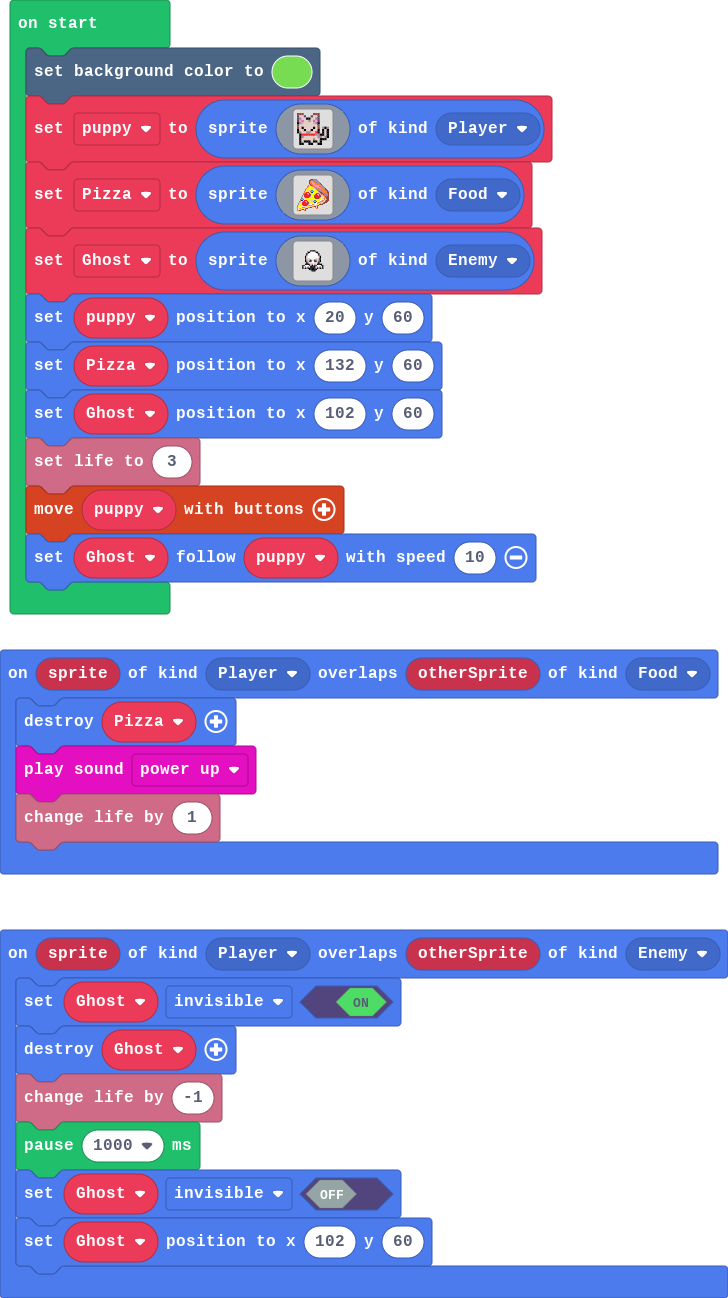
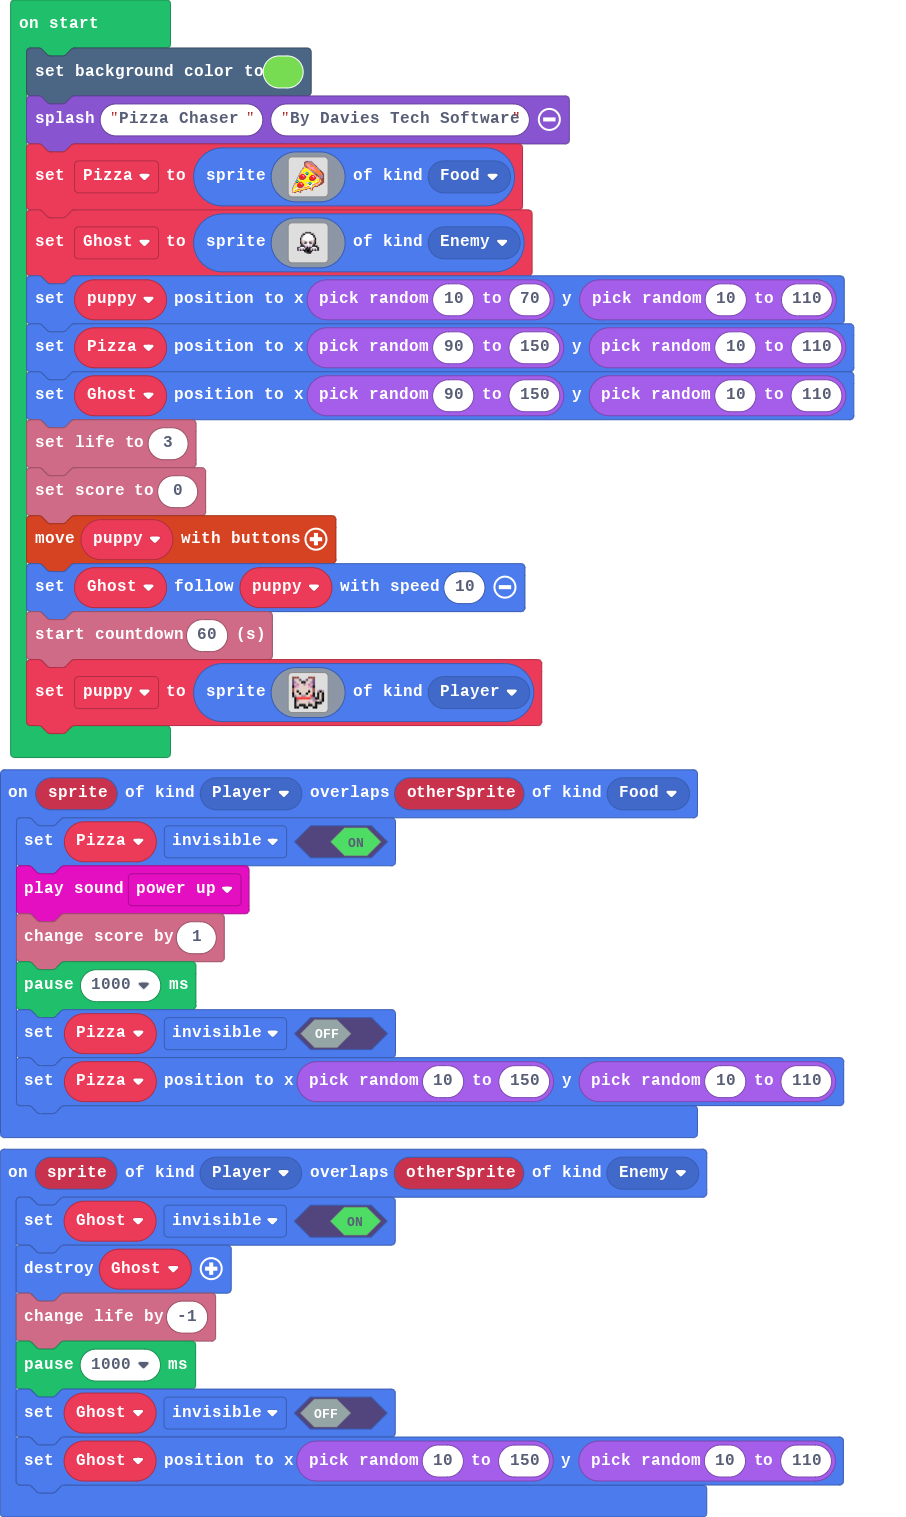
Update pxt.json, main.blocks, main.ts, tilemap.g.ts, images.g.jres, images.g.ts

diff --git a/images.g.ts b/images.g.ts
@@ -1,0 +1,246 @@
+// Auto-generated code. Do not edit.
+namespace myImages {
+
+    helpers._registerFactory("image", function(name: string) {
+        switch(helpers.stringTrim(name)) {
+            case "image1":return img`
+e e e . . . . e e e . . . . 
+c d d c . . c d d c . . . . 
+c b d d f f d d b c . . . . 
+c 3 b d d b d b 3 c . . . . 
+f b 3 d d d d 3 b f . . . . 
+e d d d d d d d d e . . . . 
+e d f d d d d f d e . b f b 
+f d d f d d f d d f . f d f 
+f b d d b b d d 2 f . f d f 
+. f 2 2 2 2 2 2 b b f f d f 
+. f b d d d d d d b b d b f 
+. f d d d d d b d d f f f . 
+. f d f f f d f f d f . . . 
+. f f . . f f . . f f . . . 
+`;
+            case "image2":return img`
+.............beebbbb............
+............eebbbb4bb...........
+............eb344bb4bb..........
+............e44334bb4bb.........
+............eb433344b4be........
+............4eb43344444be.......
+...........bd4eb43333344bb......
+..........b455d4443333444bb.....
+..........4d5555d444333444bb....
+.........4555555dd4b4443444be...
+........bd5555d555d4bb444444ee..
+........b55ddd665555bb4b44444ee.
+.......bd5555677655554ebb44444eb
+.......43222558855555d4eeb44b4ee
+......b422332ddd555222d4eebbb4be
+......be22232ed55522332db4ebbbbe
+.....bde22222e555e22232edd4bbbbe
+.....b52e222e3555e22222eddd4ebee
+....bd552eee355552e222e355544eee
+....665dd5555555552eee355dd4deee
+...6776555555555555555551554d4ee
+...4885222555dddd6655551544d4eee
+..b45522332555dd677611d444ddeee.
+..4d5222232e55555881d44ddd4eee..
+.bdd5e22222e555115114d54d4ee....
+.b55d2e222e351144d1d55eeee......
+bd5ddd2eee3d444555dd4e..........
+b555115dddd55d544eede...........
+4511d444d5544ee...4de...........
+41d4555d4ee........44...........
+41554eede.......................
+44ee...4e.......................
+`;
+            case "image3":return img`
+........................
+........................
+........................
+........................
+..........ffff..........
+........ff1111ff........
+.......fb111111bf.......
+.......f11111111f.......
+......fd11111111df......
+......fd11111111df......
+......fddd1111dddf......
+......fbdbfddfbdbf......
+......fcdcf11fcdcf......
+.......fb111111bf.......
+......fffcdb1bdffff.....
+....fc111cbfbfc111cf....
+....f1b1b1ffff1b1b1f....
+....fbfbffffffbfbfbf....
+.........ffffff.........
+...........fff..........
+........................
+........................
+........................
+........................
+`;
+            case "image4":return img`
+e e e . . . . e e e . . . . 
+c d d c . . c d d c . . . . 
+c b d d f f d d b c . . . . 
+c 3 b d d b d b 3 c . . . . 
+f b 3 d d d d 3 b f . . . . 
+e d d d d d d d d e . . . . 
+e d f d d d d f d e . b f b 
+f d d f d d f d d f . f d f 
+f b d d b b d d 2 f . f d f 
+. f 2 2 2 2 2 2 b b f f d f 
+. f b d d d d d d b b d b f 
+. f d d d d d b d d f f f . 
+. f d f f f d f f d f . . . 
+. f f . . f f . . f f . . . 
+`;
+            case "image5":return img`
+.............beebbbb............
+............eebbbb4bb...........
+............eb344bb4bb..........
+............e44334bb4bb.........
+............eb433344b4be........
+............4eb43344444be.......
+...........bd4eb43333344bb......
+..........b455d4443333444bb.....
+..........4d5555d444333444bb....
+.........4555555dd4b4443444be...
+........bd5555d555d4bb444444ee..
+........b55ddd665555bb4b44444ee.
+.......bd5555677655554ebb44444eb
+.......43222558855555d4eeb44b4ee
+......b422332ddd555222d4eebbb4be
+......be22232ed55522332db4ebbbbe
+.....bde22222e555e22232edd4bbbbe
+.....b52e222e3555e22222eddd4ebee
+....bd552eee355552e222e355544eee
+....665dd5555555552eee355dd4deee
+...6776555555555555555551554d4ee
+...4885222555dddd6655551544d4eee
+..b45522332555dd677611d444ddeee.
+..4d5222232e55555881d44ddd4eee..
+.bdd5e22222e555115114d54d4ee....
+.b55d2e222e351144d1d55eeee......
+bd5ddd2eee3d444555dd4e..........
+b555115dddd55d544eede...........
+4511d444d5544ee...4de...........
+41d4555d4ee........44...........
+41554eede.......................
+44ee...4e.......................
+`;
+            case "image6":return img`
+........................
+........................
+........................
+........................
+..........ffff..........
+........ff1111ff........
+.......fb111111bf.......
+.......f11111111f.......
+......fd11111111df......
+......fd11111111df......
+......fddd1111dddf......
+......fbdbfddfbdbf......
+......fcdcf11fcdcf......
+.......fb111111bf.......
+......fffcdb1bdffff.....
+....fc111cbfbfc111cf....
+....f1b1b1ffff1b1b1f....
+....fbfbffffffbfbfbf....
+.........ffffff.........
+...........fff..........
+........................
+........................
+........................
+........................
+`;
+            case "image7":return img`
+.............beebbbb............
+............eebbbb4bb...........
+............eb344bb4bb..........
+............e44334bb4bb.........
+............eb433344b4be........
+............4eb43344444be.......
+...........bd4eb43333344bb......
+..........b455d4443333444bb.....
+..........4d5555d444333444bb....
+.........4555555dd4b4443444be...
+........bd5555d555d4bb444444ee..
+........b55ddd665555bb4b44444ee.
+.......bd5555677655554ebb44444eb
+.......43222558855555d4eeb44b4ee
+......b422332ddd555222d4eebbb4be
+......be22232ed55522332db4ebbbbe
+.....bde22222e555e22232edd4bbbbe
+.....b52e222e3555e22222eddd4ebee
+....bd552eee355552e222e355544eee
+....665dd5555555552eee355dd4deee
+...6776555555555555555551554d4ee
+...4885222555dddd6655551544d4eee
+..b45522332555dd677611d444ddeee.
+..4d5222232e55555881d44ddd4eee..
+.bdd5e22222e555115114d54d4ee....
+.b55d2e222e351144d1d55eeee......
+bd5ddd2eee3d444555dd4e..........
+b555115dddd55d544eede...........
+4511d444d5544ee...4de...........
+41d4555d4ee........44...........
+41554eede.......................
+44ee...4e.......................
+`;
+            case "image8":return img`
+........................
+........................
+........................
+........................
+..........ffff..........
+........ff1111ff........
+.......fb111111bf.......
+.......f11111111f.......
+......fd11111111df......
+......fd11111111df......
+......fddd1111dddf......
+......fbdbfddfbdbf......
+......fcdcf11fcdcf......
+.......fb111111bf.......
+......fffcdb1bdffff.....
+....fc111cbfbfc111cf....
+....f1b1b1ffff1b1b1f....
+....fbfbffffffbfbfbf....
+.........ffffff.........
+...........fff..........
+........................
+........................
+........................
+........................
+`;
+            case "image9":return img`
+e e e . . . . e e e . . . . 
+c d d c . . c d d c . . . . 
+c b d d f f d d b c . . . . 
+c 3 b d d b d b 3 c . . . . 
+f b 3 d d d d 3 b f . . . . 
+e d d d d d d d d e . . . . 
+e d f d d d d f d e . b f b 
+f d d f d d f d d f . f d f 
+f b d d b b d d 2 f . f d f 
+. f 2 2 2 2 2 2 b b f f d f 
+. f b d d d d d d b b d b f 
+. f d d d d d b d d f f f . 
+. f d f f f d f f d f . . . 
+. f f . . f f . . f f . . . 
+`;
+        }
+        return null;
+    })
+
+    helpers._registerFactory("animation", function(name: string) {
+        switch(helpers.stringTrim(name)) {
+
+        }
+        return null;
+    })
+
+}
+// Auto-generated code. Do not edit.

diff --git a/main.ts b/main.ts
@@ -1,7 +1,10 @@
 sprites.onOverlap(SpriteKind.Player, SpriteKind.Food, function (sprite, otherSprite) {
-    Pizza.destroy()
+    Pizza.setFlag(SpriteFlag.Invisible, true)
     music.powerUp.play()
-    info.changeLifeBy(1)
+    info.changeScoreBy(1)
+    pause(1000)
+    Pizza.setFlag(SpriteFlag.Invisible, false)
+    Pizza.setPosition(randint(10, 150), randint(10, 110))
 })
 sprites.onOverlap(SpriteKind.Player, SpriteKind.Enemy, function (sprite, otherSprite) {
     Ghost.setFlag(SpriteFlag.Invisible, true)
@@ -9,27 +12,13 @@ sprites.onOverlap(SpriteKind.Player, SpriteKind.Enemy, function (sprite, otherSp
     info.changeLifeBy(-1)
     pause(1000)
     Ghost.setFlag(SpriteFlag.Invisible, false)
-    Ghost.setPosition(102, 60)
+    Ghost.setPosition(randint(10, 150), randint(10, 110))
 })
+let puppy: Sprite = null
 let Ghost: Sprite = null
 let Pizza: Sprite = null
 scene.setBackgroundColor(7)
-let puppy = sprites.create(img`
-    e e e . . . . e e e . . . . 
-    c d d c . . c d d c . . . . 
-    c b d d f f d d b c . . . . 
-    c 3 b d d b d b 3 c . . . . 
-    f b 3 d d d d 3 b f . . . . 
-    e d d d d d d d d e . . . . 
-    e d f d d d d f d e . b f b 
-    f d d f d d f d d f . f d f 
-    f b d d b b d d 2 f . f d f 
-    . f 2 2 2 2 2 2 b b f f d f 
-    . f b d d d d d d b b d b f 
-    . f d d d d d b d d f f f . 
-    . f d f f f d f f d f . . . 
-    . f f . . f f . . f f . . . 
-    `, SpriteKind.Player)
+game.splash("Pizza Chaser ", "By Davies Tech Software")
 Pizza = sprites.create(img`
     .............beebbbb............
     ............eebbbb4bb...........
@@ -90,9 +79,27 @@ Ghost = sprites.create(img`
     ........................
     ........................
     `, SpriteKind.Enemy)
-puppy.setPosition(20, 60)
-Pizza.setPosition(132, 60)
-Ghost.setPosition(102, 60)
+puppy.setPosition(randint(10, 70), randint(10, 110))
+Pizza.setPosition(randint(90, 150), randint(10, 110))
+Ghost.setPosition(randint(90, 150), randint(10, 110))
 info.setLife(3)
+info.setScore(0)
 controller.moveSprite(puppy)
 Ghost.follow(puppy, 10)
+info.startCountdown(60)
+puppy = sprites.create(img`
+    e e e . . . . e e e . . . . 
+    c d d c . . c d d c . . . . 
+    c b d d f f d d b c . . . . 
+    c 3 b d d b d b 3 c . . . . 
+    f b 3 d d d d 3 b f . . . . 
+    e d d d d d d d d e . . . . 
+    e d f d d d d f d e . b f b 
+    f d d f d d f d d f . f d f 
+    f b d d b b d d 2 f . f d f 
+    . f 2 2 2 2 2 2 b b f f d f 
+    . f b d d d d d d b b d b f 
+    . f d d d d d b d d f f f . 
+    . f d f f f d f f d f . . . 
+    . f f . . f f . . f f . . . 
+    `, SpriteKind.Player)

diff --git a/tilemap.g.ts b/tilemap.g.ts
@@ -3,5 +3,12 @@ namespace myTiles {
     //% fixedInstance jres blockIdentity=images._tile
     export const transparency16 = image.ofBuffer(hex``);
 
+    helpers._registerFactory("tile", function(name: string) {
+        switch(helpers.stringTrim(name)) {
+            case "transparency16":return transparency16;
+        }
+        return null;
+    })
+
 }
 // Auto-generated code. Do not edit.
